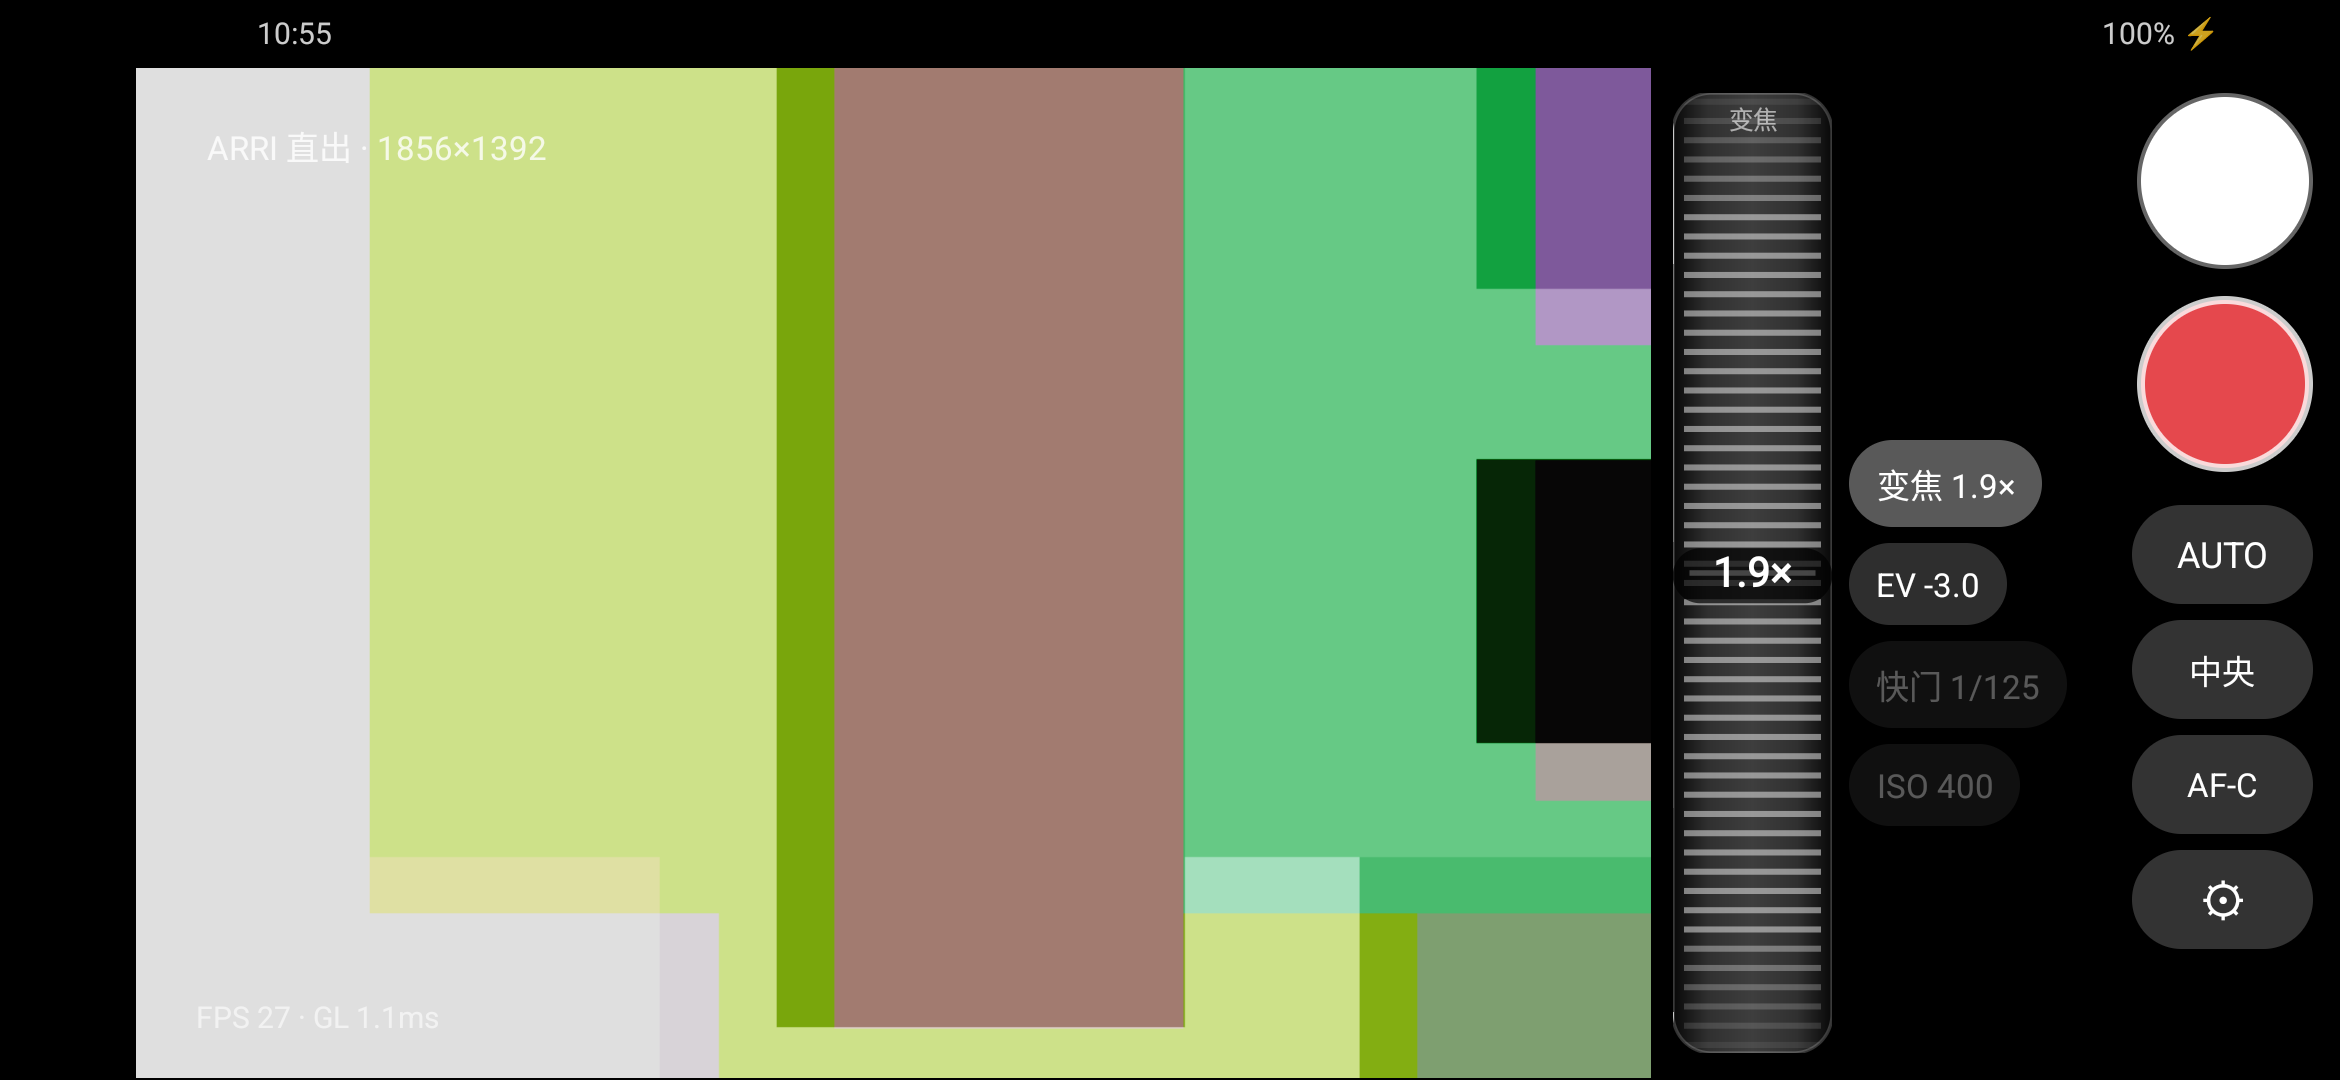
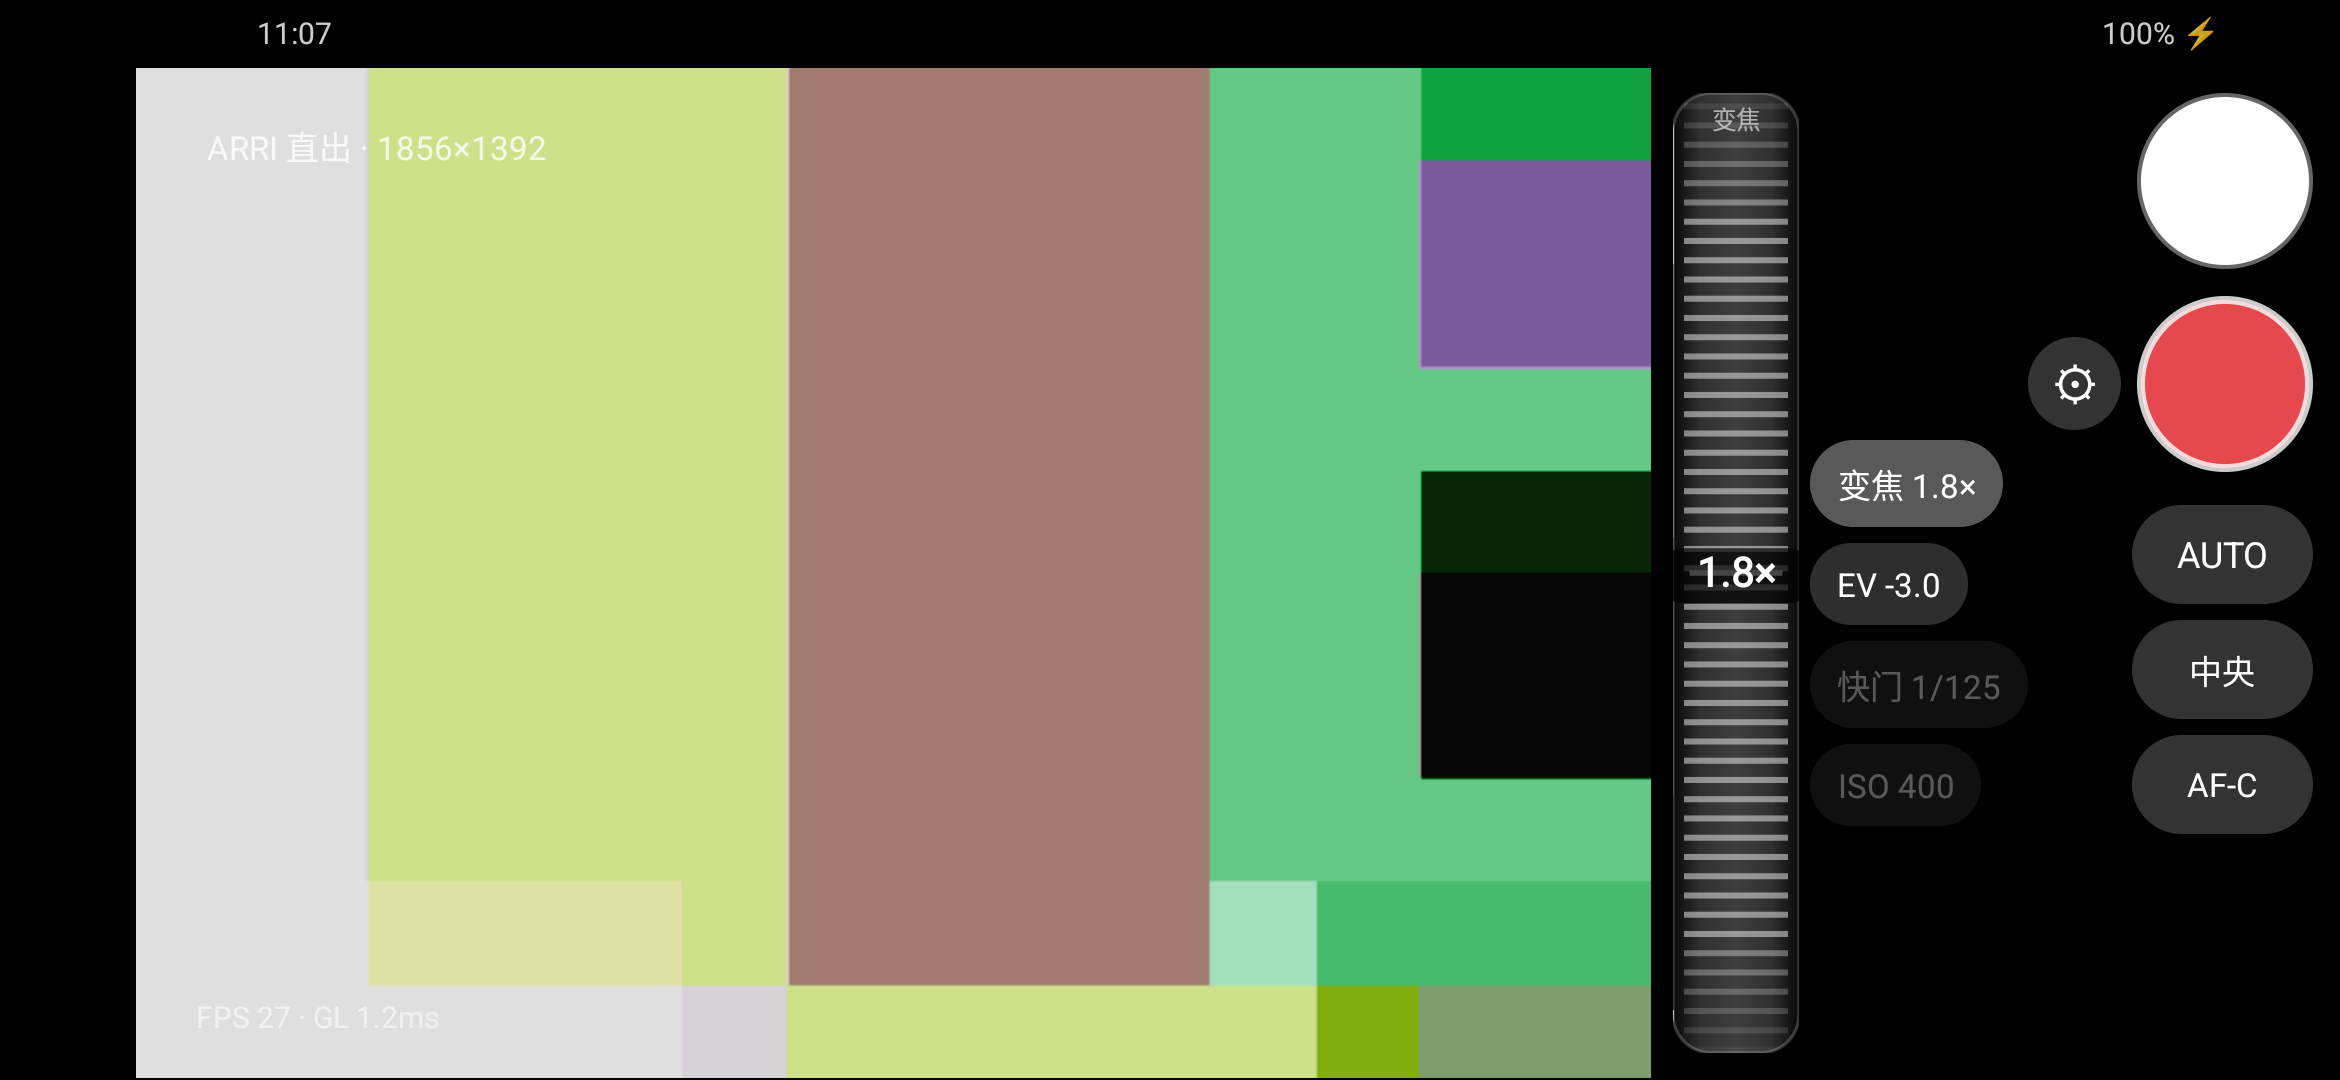
Lume: 变焦回到纯 GL 数字变焦；新增显式换镜头按钮（枚举后摄，按焦距排序）

Changed region(s): [[0.156, 0.0611, 0.8735, 1.0], [0.9047, 0.7639, 0.9983, 0.8861], [0.8423, 0.3056, 0.9047, 0.3972]]

diff --git a/lume/app/src/main/java/com/magirri/lume/MainActivity.kt b/lume/app/src/main/java/com/magirri/lume/MainActivity.kt
@@ -54,6 +54,8 @@ class MainActivity : Activity() {
     private var focusIndex = 1          // 默认 AF-C
     private var focusDiopters = 0f
     private lateinit var settingsBtn: TextView
+    private lateinit var lensBtn: TextView
+    private var lensIndexNow = 0
     private lateinit var settingsPanel: View
     private lateinit var ratioValue: TextView
     private lateinit var resValue: TextView
@@ -287,6 +289,11 @@ class MainActivity : Activity() {
         camera.onPreviewSize = { size ->
             preview.cameraAspect = size.width.toFloat() / size.height
         }
+        camera.onLensSwitched = {
+            setupDials(camera.controls)
+            applyFrameRatio()
+            updateLensButton()
+        }
         camera.onError = { msg ->
             ui.post {
                 status.text = msg
@@ -399,8 +406,6 @@ class MainActivity : Activity() {
                 preview.targetZoom = zoomLevel
                 preview.requestRender()
                 updateWheelButtons()
-                cameraZoomTick.removeCallbacks(cameraZoomTask)
-                cameraZoomTick.postDelayed(cameraZoomTask, 260)
             }
         }
         evDial = WheelView(this, "EV").apply {
@@ -455,13 +460,13 @@ class MainActivity : Activity() {
             w.visibility = View.GONE
             wheelStrip.addView(
                 w,
-                LinearLayout.LayoutParams(dp(58), ViewGroup.LayoutParams.MATCH_PARENT)
+                LinearLayout.LayoutParams(dp(46), ViewGroup.LayoutParams.MATCH_PARENT)
                     .apply { marginEnd = dp(6) }
             )
         }
         panel.addView(
             wheelStrip,
-            LinearLayout.LayoutParams(dp(64), ViewGroup.LayoutParams.MATCH_PARENT)
+            LinearLayout.LayoutParams(dp(50), ViewGroup.LayoutParams.MATCH_PARENT)
         )
 
         // 横向两栏：左边数值按钮，右边快门/录像/模式键
@@ -500,9 +505,33 @@ class MainActivity : Activity() {
             background = recordIcon(false)
             setOnClickListener { toggleRecording() }
         }
-        camCol.addView(
+
+        // 设置按钮挪到录像左边，跟录像同一行
+        settingsBtn = TextView(this).apply {
+            text = "⚙"
+            setTextColor(Color.WHITE)
+            textSize = 17f
+            gravity = Gravity.CENTER
+            background = pill(0x33FFFFFF)
+            setOnClickListener { openSettings() }
+        }
+        val recordRow = LinearLayout(this).apply {
+            orientation = LinearLayout.HORIZONTAL
+            gravity = Gravity.CENTER_VERTICAL
+        }
+        recordRow.addView(
+            settingsBtn,
+            LinearLayout.LayoutParams(dp(34), dp(34)).apply { rightMargin = dp(6) }
+        )
+        recordRow.addView(
             recordBtn,
-            LinearLayout.LayoutParams(BUTTON_SIZE, BUTTON_SIZE).apply { bottomMargin = dp(12) }
+            LinearLayout.LayoutParams(BUTTON_SIZE, BUTTON_SIZE)
+        )
+        camCol.addView(
+            recordRow,
+            LinearLayout.LayoutParams(
+                ViewGroup.LayoutParams.WRAP_CONTENT, ViewGroup.LayoutParams.WRAP_CONTENT
+            ).apply { bottomMargin = dp(12) }
         )
 
         modeBtn = TextView(this).apply {
@@ -556,19 +585,27 @@ class MainActivity : Activity() {
             LinearLayout.LayoutParams(dp(66), dp(36)).apply { topMargin = dp(6) }
         )
 
-        // 设置：和上面几个按钮同款胶囊，排在对焦模式下面
-        settingsBtn = TextView(this).apply {
-            text = "⚙"
+        // 换镜头：只有多摄机型才出现
+        lensBtn = TextView(this).apply {
+            text = "镜头"
             setTextColor(Color.WHITE)
-            textSize = 17f
+            textSize = 12f
             gravity = Gravity.CENTER
+            isSingleLine = true
             background = pill(0x33FFFFFF)
-            setOnClickListener { openSettings() }
+            visibility = View.GONE
+            setOnClickListener {
+                if (camera.lenses.size <= 1) return@setOnClickListener
+                lensIndexNow = (lensIndexNow + 1) % camera.lenses.size
+                camera.switchToLens(lensIndexNow)
+                updateLensButton()
+            }
         }
         camCol.addView(
-            settingsBtn,
+            lensBtn,
             LinearLayout.LayoutParams(dp(66), dp(36)).apply { topMargin = dp(6) }
         )
+
 
         // 画幅：3:2 / 16:9 / 2.35:1，循环切换
         ratioBtn = TextView(this).apply {
@@ -1019,12 +1056,17 @@ class MainActivity : Activity() {
         }, 900)
     }
 
-    private val cameraZoomTick = android.os.Handler(android.os.Looper.getMainLooper())
-    private val cameraZoomTask = Runnable {
-        // 交给相机：多摄机型上这一步会切到长焦/超广角，切不切由 HAL 决定
-        camera.setZoom(zoomLevel)
-        preview.cameraZoom = camera.zoom
-        preview.requestRender()
+    /** 镜头按钮：显示当前镜头的相对倍率 */
+    private fun updateLensButton() {
+        val ls = camera.lenses
+        if (ls.size <= 1) {
+            lensBtn.visibility = View.GONE
+            return
+        }
+        lensBtn.visibility = View.VISIBLE
+        lensIndexNow = camera.lensIndex()
+        val r = ls.getOrNull(lensIndexNow)?.ratio ?: 1f
+        lensBtn.text = if (r < 0.95f) String.format("%.1f×", r) else String.format("%.0f×", r)
     }
 
     /** 切对焦模式：相机侧改 AF 模式，UI 侧决定要不要露出「对焦」按钮 */

diff --git a/lume/app/src/main/java/com/magirri/lume/CameraEngine.kt b/lume/app/src/main/java/com/magirri/lume/CameraEngine.kt
@@ -91,6 +91,23 @@ class CameraEngine(private val context: Context) {
     /** 录制分辨率偏好：0 = 4K，1 = 1080P，2 = 720P（下次开会话生效） */
     var recordPreference = 0
 
+    /** 一颗物理镜头 */
+    data class Lens(val id: String, val ratio: Float, val focal: Float)
+
+    /** 所有后摄镜头（按焦距排）；ratio 是相对主摄的倍率 */
+    var lenses: List<Lens> = emptyList()
+        private set
+
+    /** 当前正在用的镜头 id */
+    var activeLensId: String = ""
+        private set
+
+    /** 换镜头后回调（MainActivity 用来重刷控件与画幅） */
+    var onLensSwitched: (() -> Unit)? = null
+
+    private var lastTexture: SurfaceTexture? = null
+    private var lastRecordTexture: SurfaceTexture? = null
+
     /** 目标帧率（同时约束 AE 的帧率范围与编码器） */
     var targetFps = 30
 
@@ -177,22 +194,19 @@ class CameraEngine(private val context: Context) {
 
     fun open(texture: SurfaceTexture, recordTexture: SurfaceTexture? = null): Config? {
         if (device != null) return null   // 已经在跑了，别重复打开
+        lastTexture = texture
+        lastRecordTexture = recordTexture
         val manager = context.getSystemService(Context.CAMERA_SERVICE) as CameraManager
-        // 记一下后摄数量，方便判断这台机器能不能靠 CONTROL_ZOOM_RATIO 换镜头
-        run {
-            val backIds = manager.cameraIdList.filter { cid ->
-                manager.getCameraCharacteristics(cid)
-                    .get(CameraCharacteristics.LENS_FACING) == CameraMetadata.LENS_FACING_BACK
+        // 枚举后摄镜头：用焦距判断谁是超广角 / 主摄 / 长焦
+        if (lenses.isEmpty()) lenses = scanLenses(manager)
+        val id = activeLensId.takeIf { it.isNotEmpty() && it in lenses.map { l -> l.id } }
+            ?: lenses.firstOrNull { it.ratio <= 1.01f }?.id
+            ?: lenses.firstOrNull()?.id
+            ?: manager.cameraIdList.firstOrNull() ?: run {
+                onError?.invoke("没有可用相机")
+                return null
             }
-            Log.i(TAG, "后摄 ${backIds.size} 个：${backIds.joinToString()}")
-        }
-        val id = manager.cameraIdList.firstOrNull { cid ->
-            manager.getCameraCharacteristics(cid)
-                .get(CameraCharacteristics.LENS_FACING) == CameraMetadata.LENS_FACING_BACK
-        } ?: manager.cameraIdList.firstOrNull() ?: run {
-            onError?.invoke("没有可用相机")
-            return null
-        }
+        activeLensId = id
         val chars = manager.getCameraCharacteristics(id)
         val map = chars.get(CameraCharacteristics.SCALER_STREAM_CONFIGURATION_MAP)
             ?: run {
@@ -368,6 +382,47 @@ class CameraEngine(private val context: Context) {
             applyZoomAndEv(this)
         }.build()
 
+    /** 扫出所有后摄镜头，按焦距算出相对主摄的倍率 */
+    private fun scanLenses(manager: CameraManager): List<Lens> {
+        val infos = mutableListOf<Triple<String, Float, Long>>()
+        for (cid in manager.cameraIdList) {
+            try {
+                val c = manager.getCameraCharacteristics(cid)
+                if (c.get(CameraCharacteristics.LENS_FACING) != CameraMetadata.LENS_FACING_BACK) continue
+                val focal = c.get(CameraCharacteristics.LENS_INFO_AVAILABLE_FOCAL_LENGTHS)
+                    ?.minOrNull() ?: continue
+                val size = c.get(CameraCharacteristics.SENSOR_INFO_PHYSICAL_SIZE) ?: continue
+                val area = (size.width * size.height).toLong()
+                infos += Triple(cid, focal, area)
+            } catch (_: Exception) {
+            }
+        }
+        if (infos.isEmpty()) return emptyList()
+        // 传感器最大的那颗当主摄（1.0×）
+        val main = infos.maxByOrNull { it.third }!!
+        val mainFocal = main.second
+        val list = infos.map { Lens(it.first, it.second / mainFocal, it.second) }
+            .sortedBy { it.ratio }
+        Log.i(TAG, "镜头: " + list.joinToString { "${it.id}@%.2fx".format(it.ratio) })
+        return list
+    }
+
+    /** 切到第 index 颗镜头（重开会话） */
+    fun switchToLens(index: Int) {
+        val lens = lenses.getOrNull(index) ?: return
+        if (lens.id == activeLensId) return
+        val tex = lastTexture ?: return
+        val rec = lastRecordTexture
+        activeLensId = lens.id
+        zoom = 1f
+        close()
+        open(tex, rec)
+        onLensSwitched?.invoke()
+    }
+
+    /** 当前镜头在列表里的下标 */
+    fun lensIndex(): Int = lenses.indexOfFirst { it.id == activeLensId }.coerceAtLeast(0)
+
     /** 对焦模式：AF-S 单次、AF-C 连续、MF 手动锁焦 */
     private fun applyFocus(builder: CaptureRequest.Builder) {
         // 点击对焦落下的区域：AF-S / AF-C 都生效，MF 忽略
@@ -492,8 +547,9 @@ class CameraEngine(private val context: Context) {
             }
         }
 
+        // 变焦全部交给 GL（数字变焦）；相机端不动，避免"相机跳 + GL 补"互相打架
         if (!controls.hasZoom) return
-        val z = zoom.coerceIn(1f, controls.maxZoom)
+        val z = 1f
         if (Build.VERSION.SDK_INT >= Build.VERSION_CODES.R) {
             builder.set(CaptureRequest.CONTROL_ZOOM_RATIO, z)
         } else {
